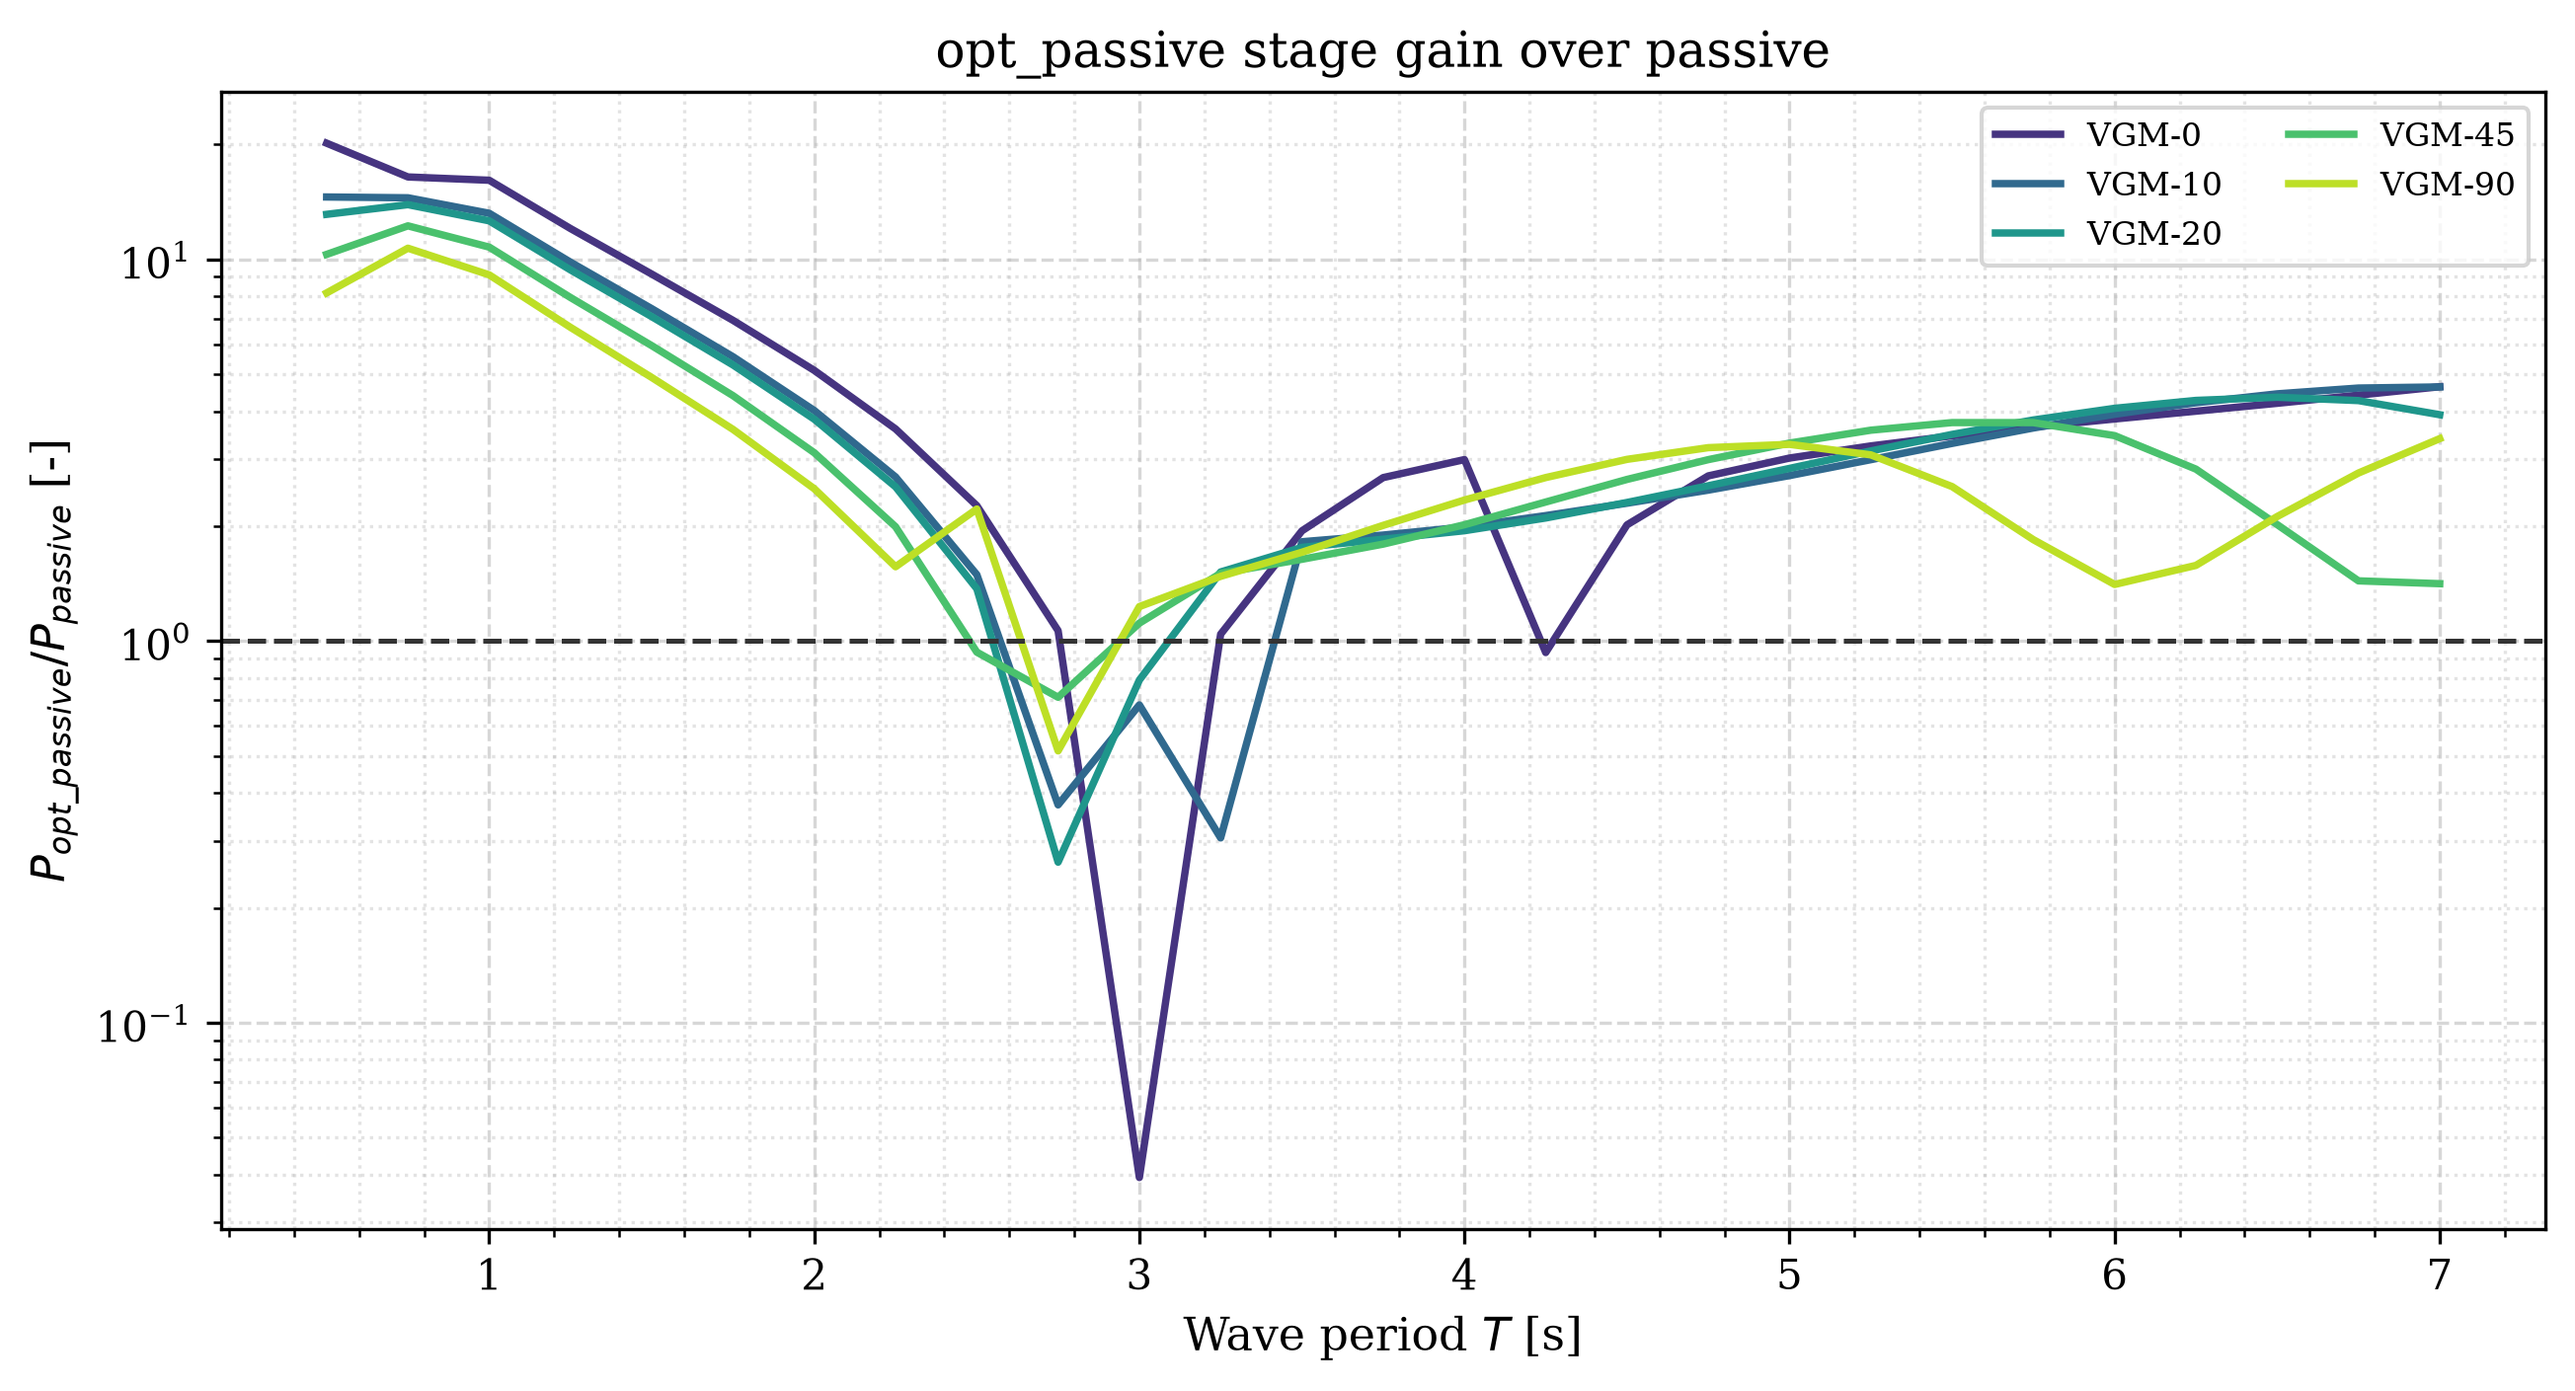
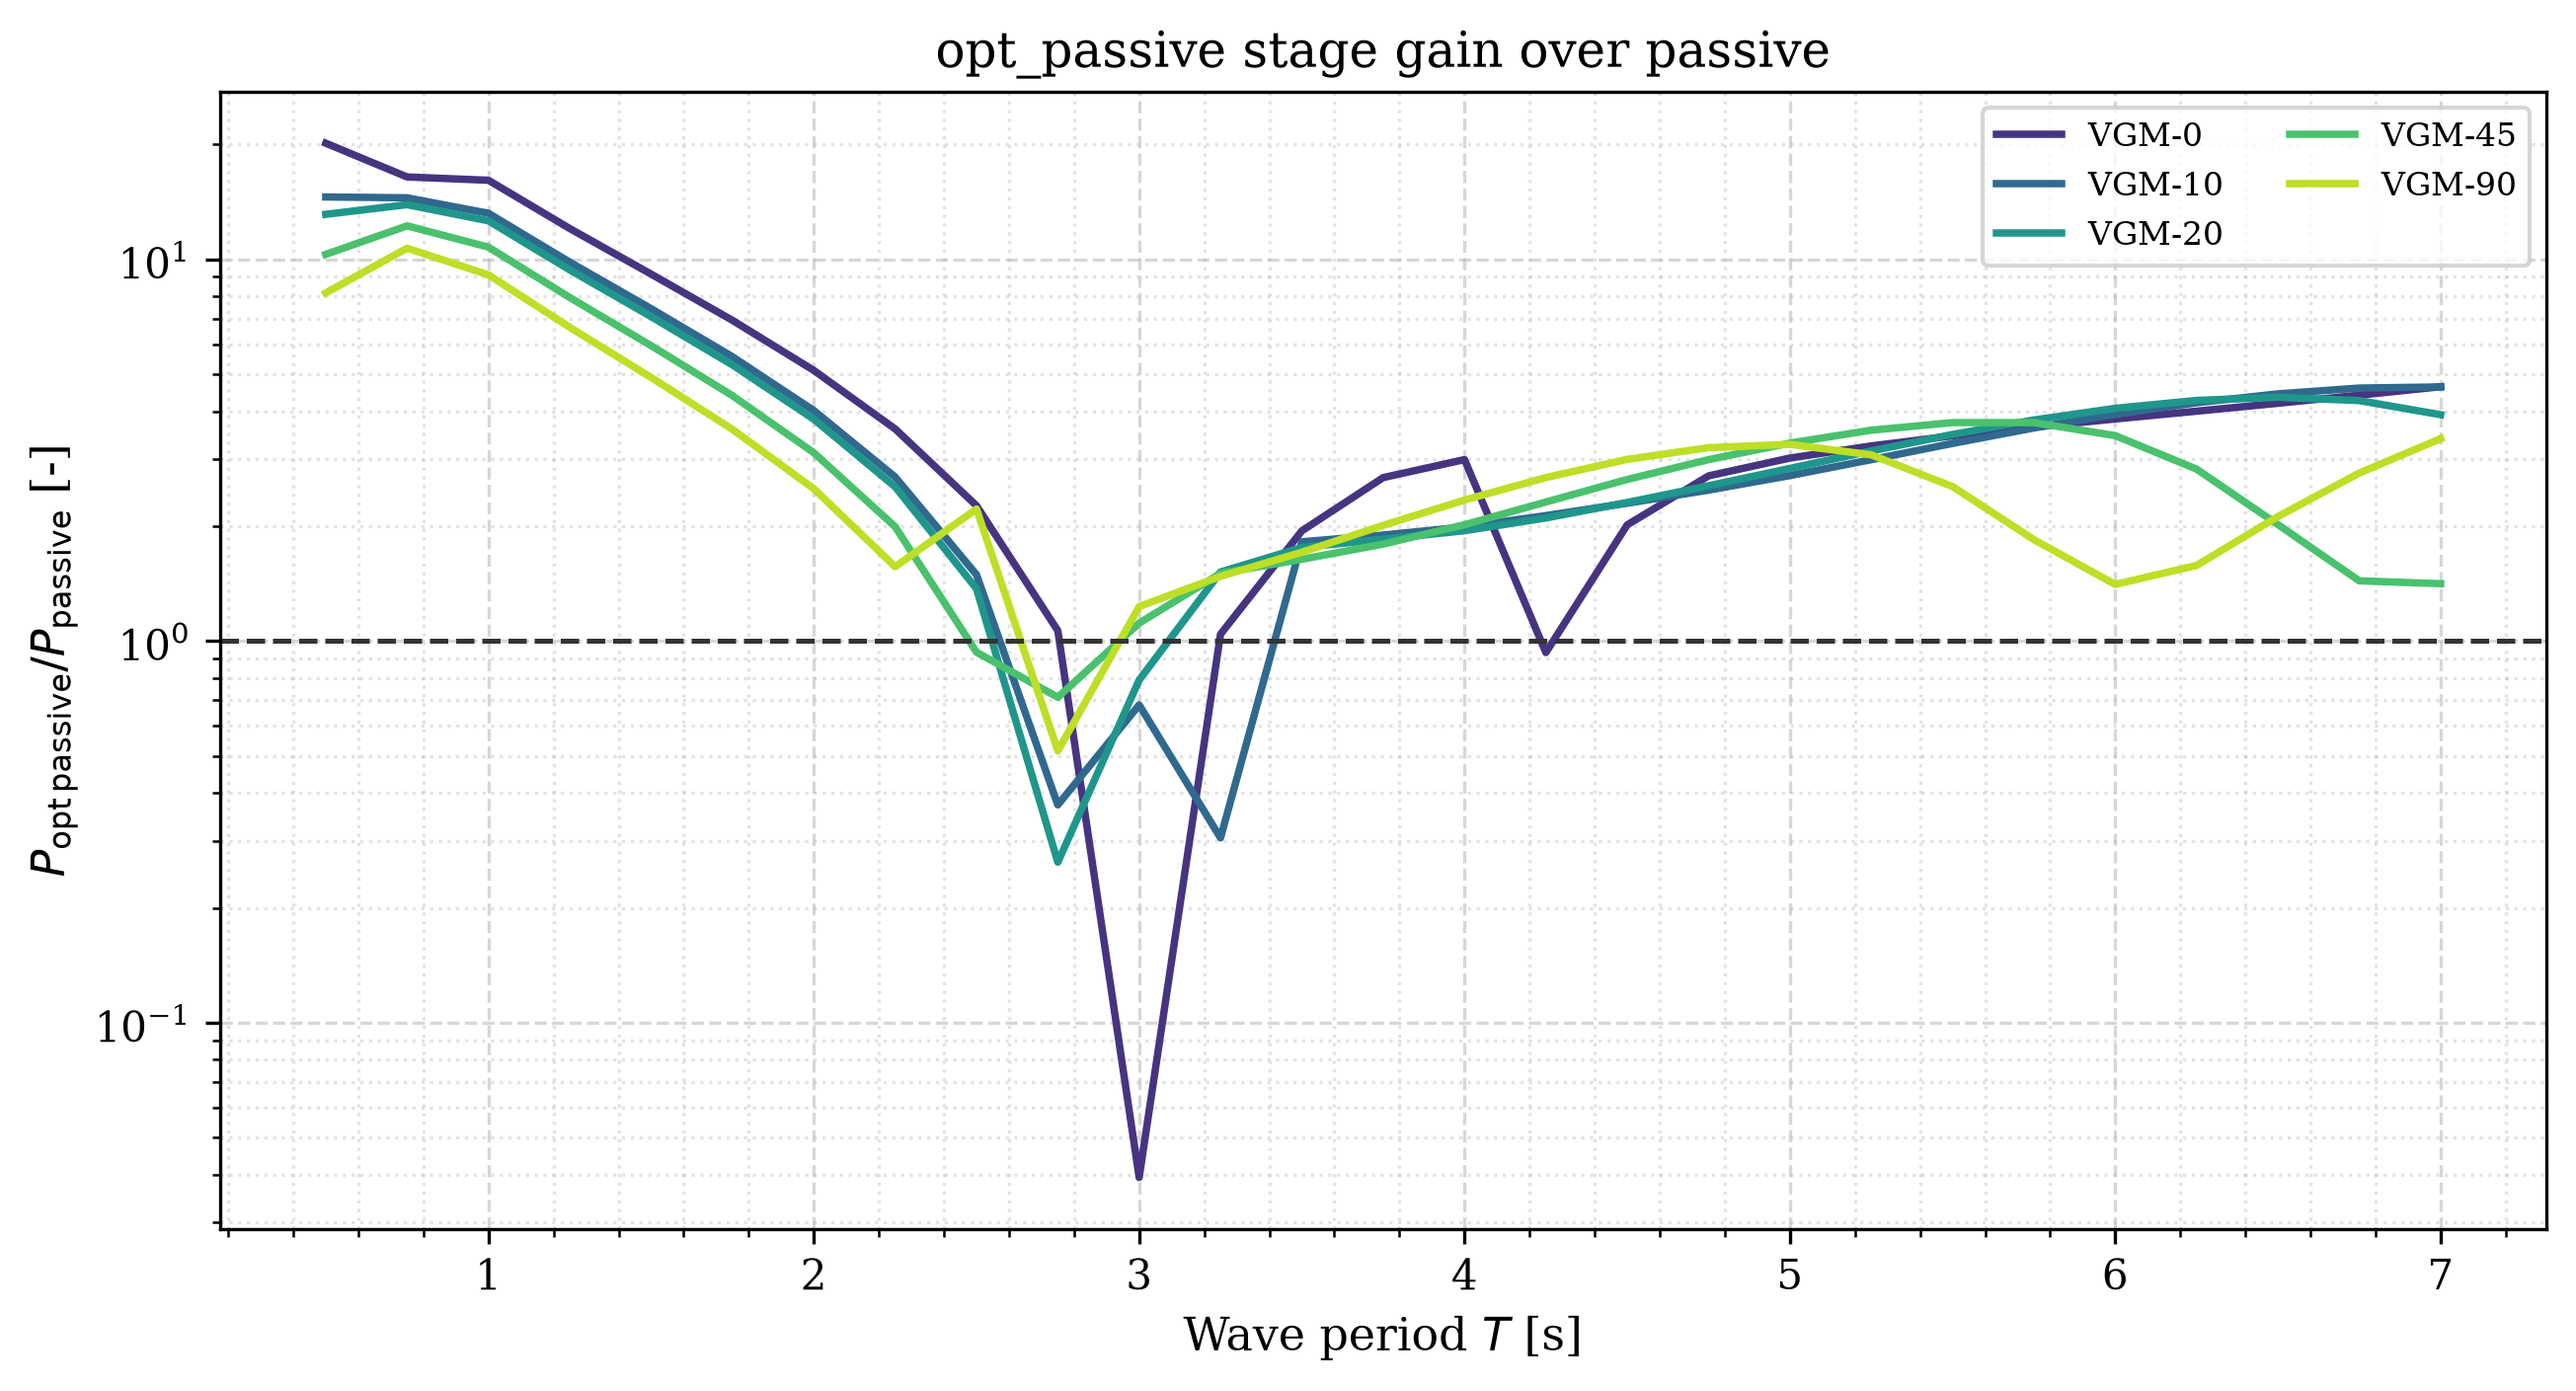
Polish stage gain axis labeling

diff --git a/scripts/plot_opt_passive_stage.py b/scripts/plot_opt_passive_stage.py
@@ -138,7 +138,7 @@ def plot_stage_gain(passive_map: dict[int, Path], opt_map: dict[int, Path], out_
 
     ax.axhline(1.0, linestyle="--", linewidth=1.2, color="0.2")
     ax.set_xlabel("Wave period $T$ [s]")
-    ax.set_ylabel(r"$P_{opt\_passive} / P_{passive}$ [-]")
+    ax.set_ylabel(r"$P_{\mathrm{opt\,passive}} / P_{\mathrm{passive}}$ [-]")
     ax.set_title("opt_passive stage gain over passive")
     ax.set_yscale("log")
     _style_axes(ax)
